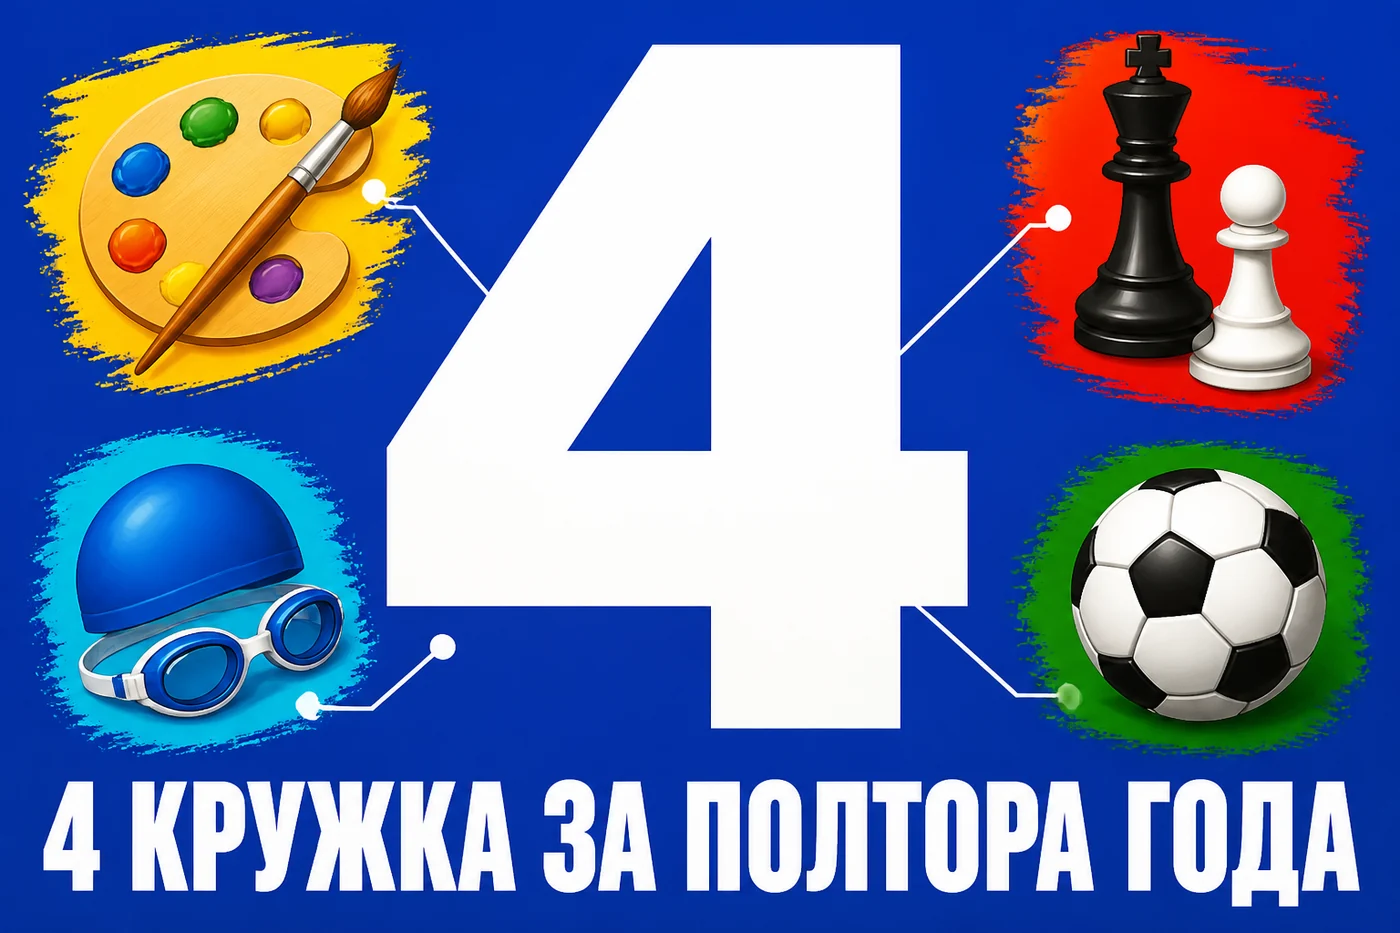
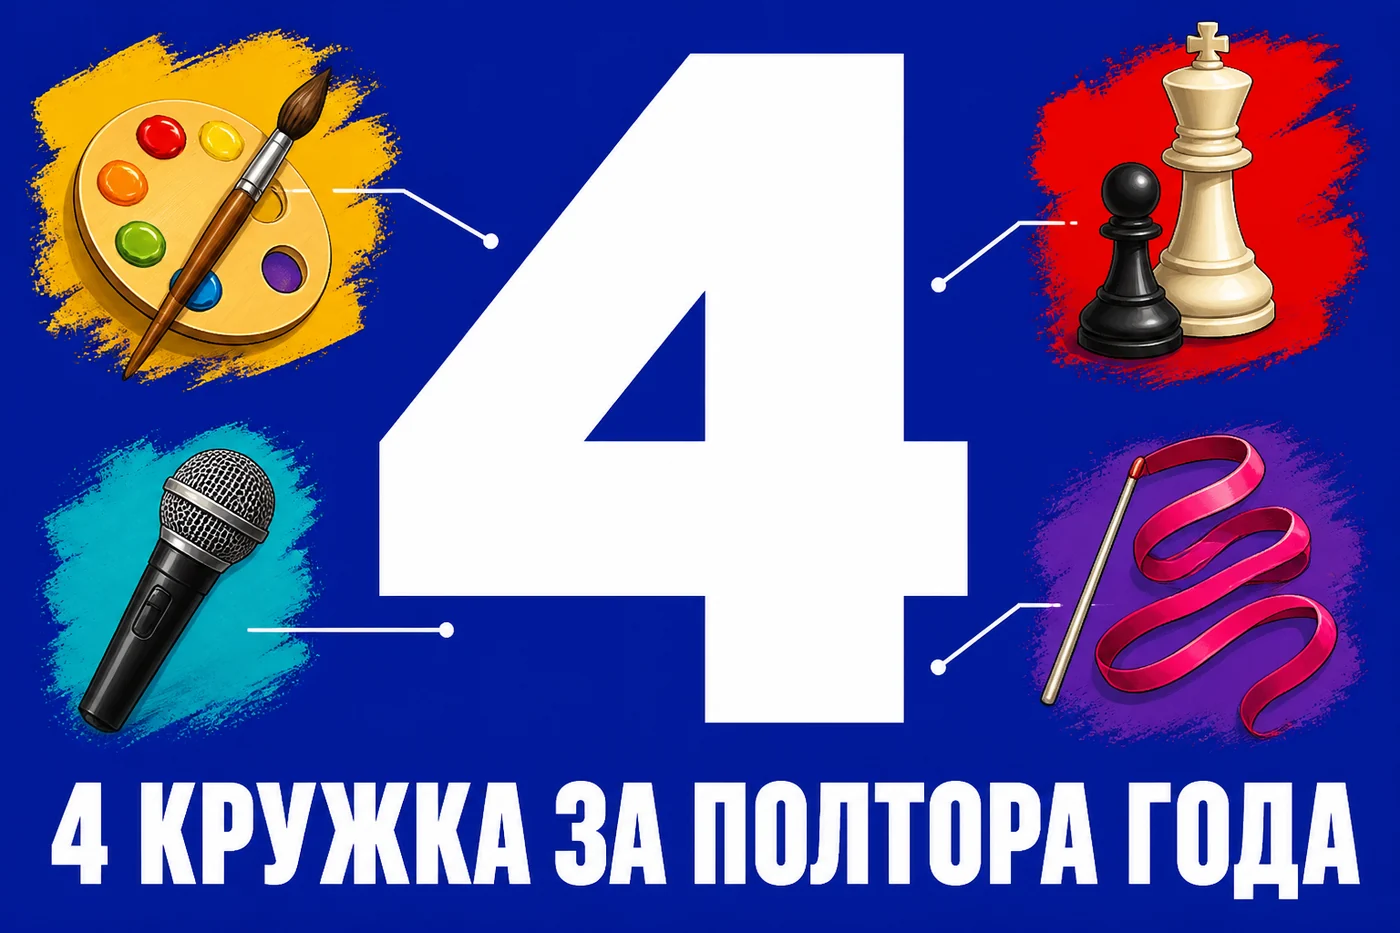
Обложка кружков под текст сайта и короткие seoTitle
На перенесённой с Дзена обложке были плавание и футбол, а в статье сайта
художка, шахматы, вокал и гимнастика. Иконки приведены к тексту.
Четыре seoTitle укорочены до 65 символов.

diff --git a/src/content/articles/rebenok-ne-hochet-myt-golovu.md b/src/content/articles/rebenok-ne-hochet-myt-golovu.md
@@ -1,6 +1,6 @@
 ---
 title: "Ребёнок не хочет мыть голову: почему кричит и что делать, чтобы купание перестало быть скандалом"
-seoTitle: "Ребёнок боится мыть голову: что делать, как приучить купаться без слёз"
+seoTitle: "Ребёнок боится мыть голову: как купать без слёз и криков"
 description: "Ребёнок кричит при мытье головы и отказывается лезть в ванну? Разбираю, что именно его пугает, и даю приёмы, которые снимают крик за пару недель без силы и уговоров."
 pubDate: 2026-09-14
 updatedDate: 2026-09-14

diff --git a/src/content/cards/kartochki-emociy.md b/src/content/cards/kartochki-emociy.md
@@ -1,6 +1,6 @@
 ---
 title: "Карточки эмоций для детей: 6 листов для печати"
-seoTitle: "Карточки эмоции для детей распечатать бесплатно: колесо, термометр злости"
+seoTitle: "Карточки эмоций для детей распечатать бесплатно"
 description: "Шесть листов про чувства: карточки эмоций, колесо эмоций, термометр злости, что мне нужно, что сказать вместо крика и способы остыть. Скачать PDF бесплатно."
 pubDate: 2026-09-06
 ages: "3-10 лет"

diff --git a/src/content/cards/chek-listy-dlya-detey.md b/src/content/cards/chek-listy-dlya-detey.md
@@ -1,6 +1,6 @@
 ---
 title: "Чек-листы для детей: 6 штук для печати"
-seoTitle: "Чек лист для ребёнка распечатать бесплатно: портфель, уборка, домашка"
+seoTitle: "Чек-листы для детей распечатать бесплатно: 6 штук"
 description: "Шесть чек-листов для детей: портфель, уборка комнаты, сборы на прогулку, помощь по дому, гигиена и домашка. Ребёнок отмечает сам, а вы перестаёте напоминать. Скачать PDF."
 pubDate: 2026-09-05
 ages: "5-11 лет"

diff --git a/src/content/cards/labirinty-dlya-detey.md b/src/content/cards/labirinty-dlya-detey.md
@@ -1,6 +1,6 @@
 ---
 title: "Лабиринты для детей: 6 штук для печати"
-seoTitle: "Лабиринты для детей распечатать бесплатно: 6 штук от простых до сложных"
+seoTitle: "Лабиринты для детей распечатать бесплатно: 6 штук"
 description: "Шесть лабиринтов для печати: от лёгкого для 3-4 лет до сложного для школьников. Все проходимые, с одним верным путём. Скачать PDF бесплатно и сразу."
 pubDate: 2026-09-03
 ages: "3-10 лет"
